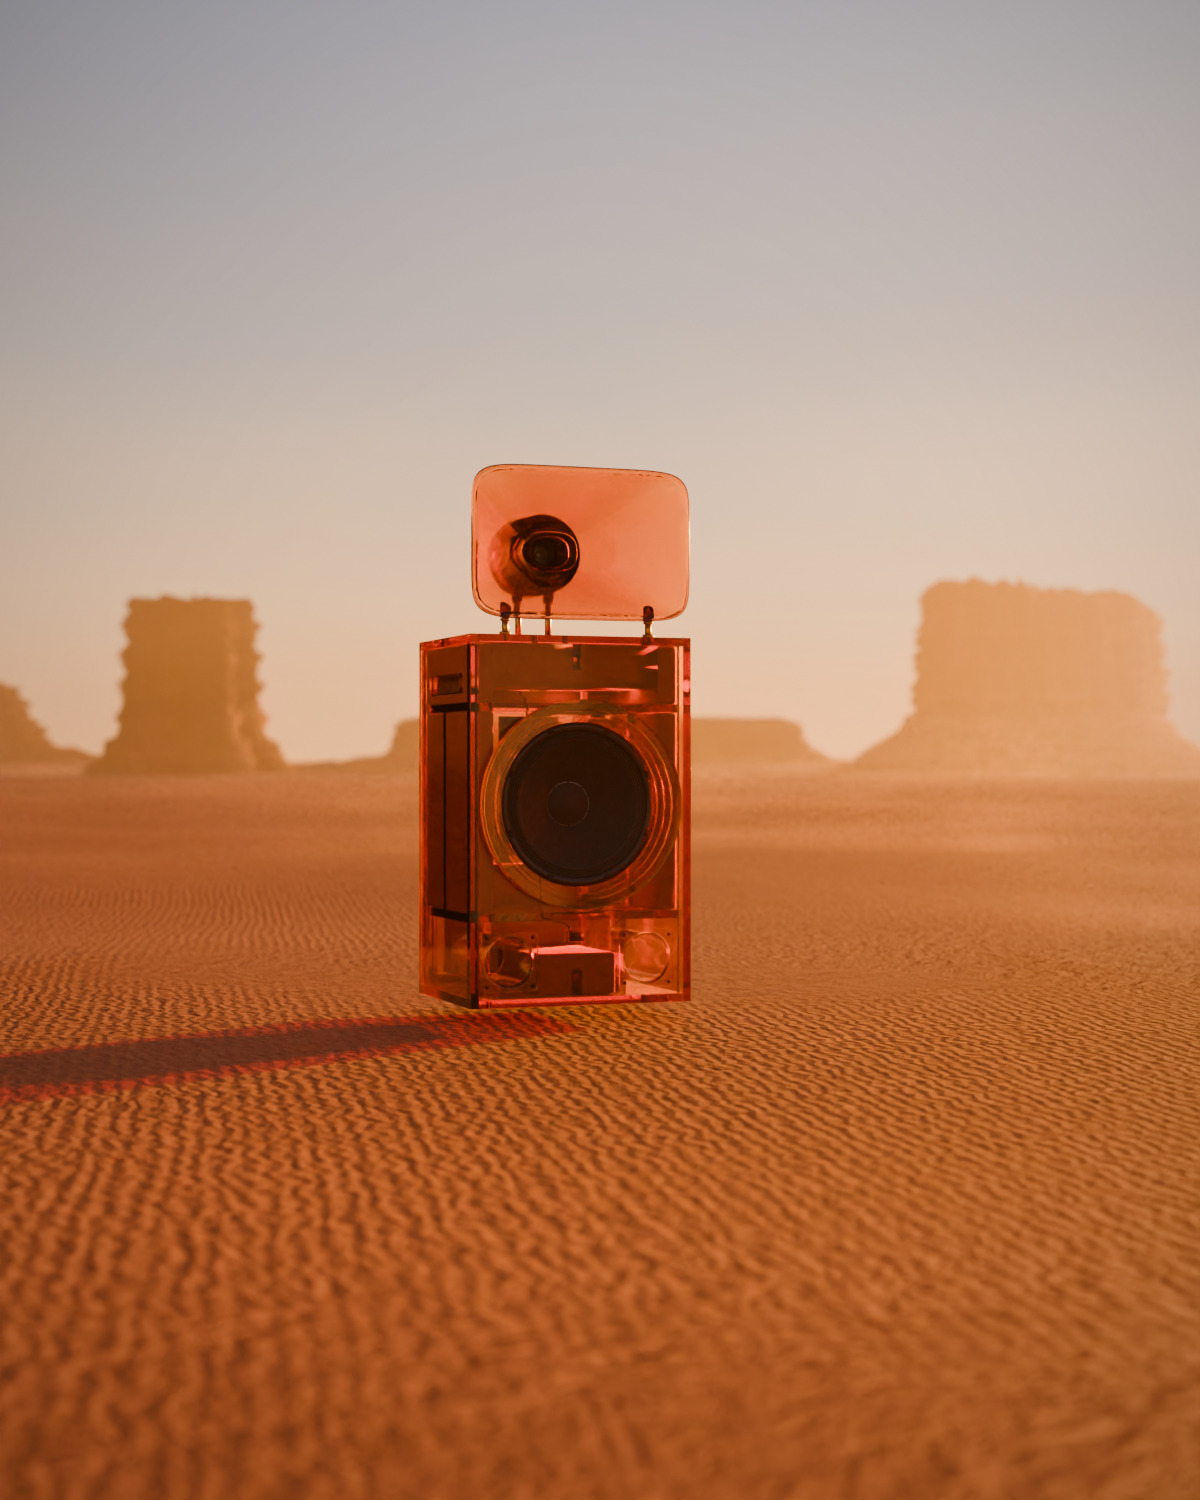
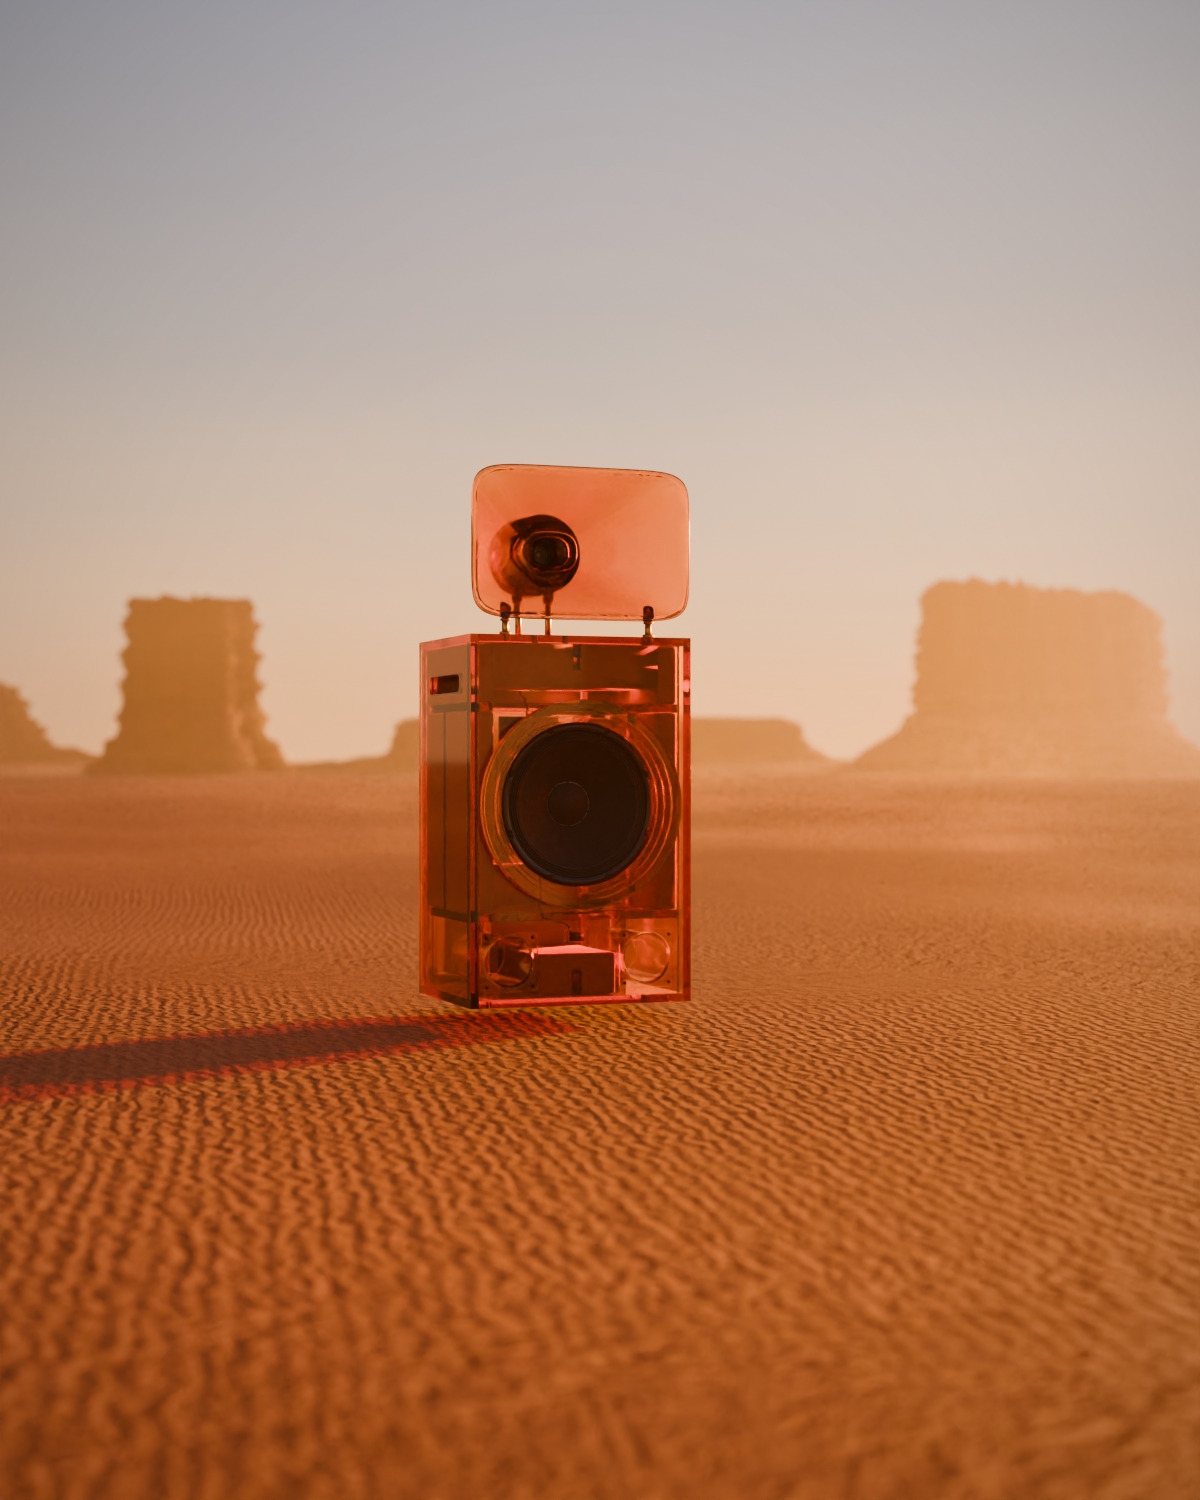
biomes: Dust and Ember re-rendered with real cards out of frame (replace 0a356de1, 45225a29), the gate: all four PASS; A/B in CHECK.md
Claude-Session: https://claude.ai/code/session_01BAaPTnGwdpP4WKGVD3vbqx

Changed region(s): [[0.3392, 0.3987, 0.4008, 0.644]]

diff --git a/renders/2026-11-03/barkhorn/habitats/CHECK.md b/renders/2026-11-03/barkhorn/habitats/CHECK.md
@@ -20,9 +20,9 @@ Withdrawn:
 
 | Habitat | see_through | grounded | no_light_down | smooth_horn | Notes |
 |---|---|---|---|---|---|
-| Dust (polished) | PASS | PASS | PASS | PASS | Sand bounce 0.35, no tumbleweed, 64 samples. Amber-red acrylic: the woofer, ring, braces, ports, crossover box, its screws and the desert behind show through. The rail sits on the ripples: luma 81 under the front edge against 107 for open sand. The contact shadow is weak. The red patch is the tinted shadow. The horn is a smooth glassy shell, with the driver showing as a smooth bulb and no X. |
-| Ember (polished, turned) | PASS | PASS | PASS | PASS | rotate_z 12 (10 deg off the camera line), crack_r 2.0, camera at 0.8 m, 96 samples. Crease 8.3 / 4.3, left and right of the driver (`flare.py`; Dust 7.8, Ice 7.2): the sky wedge is gone. The 12 o'clock ring glint is gone (red max 233 -> 62). The woofer, braces and ports show through, and the lava through the side. Contact: luma 12 under the base against 26 beside it. |
 | Acid (polished, 4 deg off) | PASS | PASS | PASS | PASS | rotate_z -8, sink 0.03 (18 mm into the puddle), 64 samples. Crease 5.9 / 10.8 (Dust 7.8, Ice 7.2; it was 26.7 at 28 deg off). The woofer, frames, braces, ports, posts and screws show through. The reflection starts at the base edge. The horn is smooth, with very faint creases invisible at phone size. |
 | Fog (polished, reframed, real cards) | PASS | PASS | PASS | PASS | Camera 0.30 m lower (lens rise 0.18), azimuth -10, f/4. rotate_z -5 (5 deg off; at 20 deg off the side face read as a cream sheet, see held/). The sun neutral white at 110. Real flag and card: the sun-side card left out, the other out of frame at 2.2 m. 96 samples. Crease 1.9 / 2.3 (Dust 7.8, Ice 7.2): the whole horn on plain sky. The left cut-edge strip is still warm, b* median 9.7 (p90 17.2) against the sky's -3.6; the target was 5 or less. Clear: the woofer, braces, posts, ports and the terminal block, with the grass and rock behind, show through. |
 | Haze (polished, sun front side, real cards) | PASS | PASS | PASS | PASS | Sun 70, 6 deg up, the HDRI turned to 338.8, the set's sun disk at 70 (all out of frame). rotate_z -10 (5 deg off), lens rise -0.13, a 4 x 3 m real flag, the sun-side card left out and the other out of frame at 2.6 m. 96 samples. Upper box max channel 47.5 (target 45-60). Horn to box 2.8x. Horn and box hue both 239. Crease 6.1 / 7.3. The woofer, ring, braces, ports and the block show through the front, and the hills through the side. |
 | Ice (polished, real cards) | PASS | PASS | PASS | PASS | It replaces 27911a44, whose reflect-only cards sat in the frame (11.1 %). Real flag and cards out of frame (1.8 / 2.4 m). The A/B against 27911a44 (`ice-ab-glossy-vs-real-cards.jpg`): speaker mean change 11.4, p95 26, largest 40 px block 24.2. The whole scene is about -0.15 EV (speaker 72.5 -> 64.7, snow 119.8 -> 111.2, sky unchanged), because the real 8 x 6 m flag and the card block part of the sky dome that lights Ice. The batt is still clearly in view. |
+| Dust (polished, real cards) | PASS | PASS | PASS | PASS | It replaces 0a356de1 (reflect-only cards in frame, 10.1 / 5.6 %). Real flag; the sun-side card left out, the other out of frame at 2.4 m. The A/B: speaker mean change 4.6, p95 33, largest 40 px block 64.3 on the left side face, which had mirrored the old black card and now mirrors sky and reads paler (`dust-ab-side-face-crop.jpg`). Speaker level 98.0 -> 100.2. Clear orange-red: the woofer, ring, frames, braces, box, ports and posts show through. |
+| Ember (polished, real cards) | PASS | PASS | PASS | PASS | It replaces 45225a29 (reflect-only cards in frame, 4.5 % each). Real flag and cards out of frame at 2.2 m. The A/B: speaker mean change 4.9, p95 14, largest block 16.0. Speaker level 27.8 -> 25.4. Dark ruby: the woofer, braces, frames and ports show through, with lava through the side; it reads almost opaque at phone size (Ember passes 10 % through the box). |
